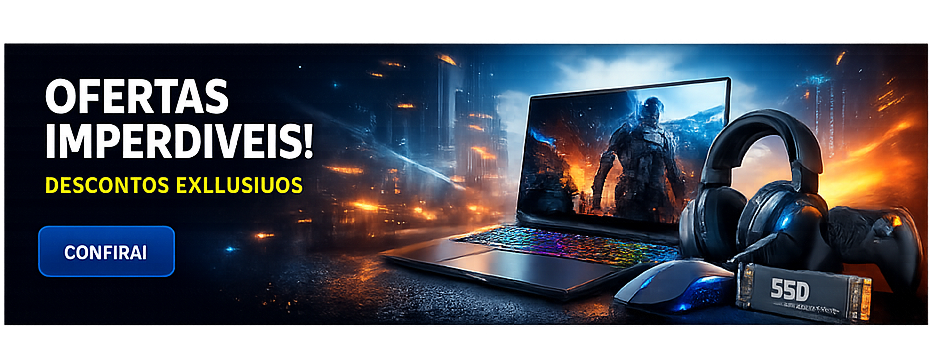
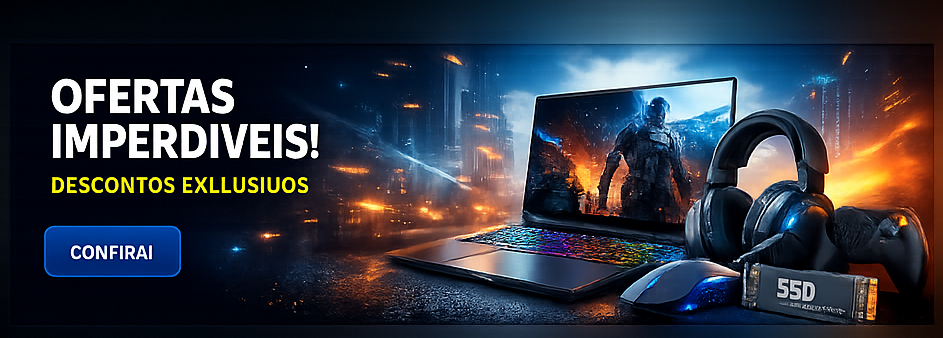
Add files via upload

diff --git a/styles.css b/styles.css
@@ -1,24 +1,145 @@
 
-:root{--bg:#050914;--surface:#0d1628;--surface2:#14213a;--primary:#1688ff;--accent:#35c3ff;--text:#f4f7fb;--muted:#9fb0c7;--border:rgba(255,255,255,.09);--radius:18px}
-*{box-sizing:border-box;margin:0;padding:0}html{scroll-behavior:smooth}
-body{font-family:Segoe UI,Arial,sans-serif;background:radial-gradient(circle at 80% 10%,rgba(22,136,255,.14),transparent 32%),linear-gradient(180deg,#050914,#091121);color:var(--text);line-height:1.6}
-img{max-width:100%;display:block}a{text-decoration:none;color:inherit}button,input{font:inherit}.container{width:min(1200px,92%);margin:auto}
-.header{position:sticky;top:0;z-index:1000;background:rgba(5,9,20,.9);backdrop-filter:blur(16px);border-bottom:1px solid var(--border)}
-.header-content{min-height:82px;display:flex;align-items:center;gap:28px}.brand{width:220px;flex:0 0 220px}.brand img{width:100%;height:58px;object-fit:contain;object-position:left center}
-.search{display:flex;flex:1}.search input{width:100%;padding:14px 17px;border:1px solid var(--border);border-right:0;border-radius:12px 0 0 12px;outline:none}
-.search button{border:0;padding:0 22px;border-radius:0 12px 12px 0;background:linear-gradient(135deg,var(--primary),#2867ff);color:#fff;font-weight:700}
-nav{display:flex;gap:20px;white-space:nowrap}nav a:hover{color:var(--accent)}
-.hero{padding:76px 0 58px}.hero-grid{display:grid;grid-template-columns:.95fr 1.05fr;gap:44px;align-items:center}
-.tag{display:inline-block;color:var(--accent);font-weight:700;background:rgba(22,136,255,.14);border:1px solid rgba(53,195,255,.2);padding:9px 15px;border-radius:999px;margin-bottom:20px}
-.hero h1{font-size:clamp(2.6rem,5vw,4.7rem);line-height:1.02;margin-bottom:20px}.hero p{color:var(--muted);font-size:1.08rem;margin-bottom:30px}
-.buttons{display:flex;gap:14px;flex-wrap:wrap}.btn{display:inline-flex;align-items:center;justify-content:center;padding:14px 22px;border-radius:12px;font-weight:700;transition:.22s}.btn:hover{transform:translateY(-3px)}
-.primary{background:linear-gradient(135deg,var(--primary),#285df5);color:#fff}.secondary{border:1px solid rgba(53,195,255,.55)}
-.hero-banner{display:block;border:1px solid var(--border);border-radius:20px;overflow:hidden;box-shadow:0 25px 70px rgba(0,0,0,.38)}.hero-banner img{width:100%;aspect-ratio:16/6;object-fit:cover}
-.section{padding:62px 0}.section h2{font-size:2rem;margin-bottom:26px}.category-grid{display:grid;grid-template-columns:repeat(4,1fr);gap:18px}
-.category{min-height:105px;border:1px solid var(--border);border-radius:var(--radius);background:linear-gradient(145deg,var(--surface2),var(--surface));color:#fff;font-size:1.05rem;padding:22px;cursor:pointer}
-.products-grid{display:grid;grid-template-columns:repeat(4,1fr);gap:20px}.product-card{background:linear-gradient(160deg,#121f36,#0c1526);border:1px solid var(--border);border-radius:var(--radius);overflow:hidden}
-.product-image{height:190px;display:grid;place-items:center;font-size:4rem}.product-info{padding:20px}.product-info h3{margin:8px 0 14px}.product-price{font-size:1.35rem;font-weight:800;margin-bottom:15px}.product-card .btn{width:100%}
-.offer-strip{margin-bottom:70px;padding:34px;border:1px solid var(--border);border-radius:22px;background:linear-gradient(135deg,rgba(20,33,58,.95),rgba(8,18,34,.95));display:flex;align-items:center;justify-content:space-between}
-footer{border-top:1px solid var(--border);background:#040711;padding:44px 0}.footer-grid{display:grid;grid-template-columns:1fr 1fr 1fr;gap:30px}footer p,footer a{color:var(--muted)}
-@media(max-width:980px){.header-content{flex-wrap:wrap;padding:14px 0}.brand{width:190px;flex-basis:190px}nav{width:100%;justify-content:center}.hero-grid{grid-template-columns:1fr}.category-grid,.products-grid{grid-template-columns:repeat(2,1fr)}}
-@media(max-width:620px){.search{order:3;width:100%}nav{overflow-x:auto;justify-content:flex-start}.category-grid,.products-grid,.footer-grid{grid-template-columns:1fr}.offer-strip{flex-direction:column;align-items:flex-start}}
+:root{
+  --bg:#050914;--surface:#0d1628;--surface2:#14213a;
+  --primary:#1688ff;--accent:#35c3ff;--text:#f4f7fb;
+  --muted:#9fb0c7;--border:rgba(255,255,255,.09);--radius:18px
+}
+*{box-sizing:border-box;margin:0;padding:0}
+html{scroll-behavior:smooth}
+body{
+  font-family:Segoe UI,Arial,sans-serif;
+  background:
+    radial-gradient(circle at 80% 8%,rgba(22,136,255,.16),transparent 30%),
+    linear-gradient(180deg,#050914,#091121);
+  color:var(--text);line-height:1.6
+}
+img{max-width:100%;display:block}
+a{text-decoration:none;color:inherit}
+button,input{font:inherit}
+.container{width:min(1200px,92%);margin:auto}
+
+.header{
+  position:sticky;top:0;z-index:1000;
+  background:rgba(5,9,20,.92);
+  backdrop-filter:blur(16px);
+  border-bottom:1px solid var(--border)
+}
+.header-content{
+  min-height:78px;display:flex;align-items:center;gap:26px
+}
+.brand{
+  width:210px;flex:0 0 210px;overflow:hidden
+}
+.brand img{
+  width:100%;height:58px;object-fit:contain;object-position:left center
+}
+.search{display:flex;flex:1;min-width:260px}
+.search input{
+  width:100%;padding:14px 17px;border:1px solid var(--border);
+  border-right:0;border-radius:12px 0 0 12px;outline:none
+}
+.search button{
+  border:0;padding:0 22px;border-radius:0 12px 12px 0;
+  background:linear-gradient(135deg,var(--primary),#2867ff);
+  color:#fff;font-weight:700;cursor:pointer
+}
+nav{display:flex;gap:18px;white-space:nowrap}
+nav a{color:#e8eef8}
+nav a:hover{color:var(--accent)}
+
+.hero{padding:72px 0 60px}
+.hero-grid{
+  display:grid;grid-template-columns:.95fr 1.05fr;
+  gap:42px;align-items:center
+}
+.tag{
+  display:inline-block;color:var(--accent);font-weight:700;
+  background:rgba(22,136,255,.14);
+  border:1px solid rgba(53,195,255,.2);
+  padding:9px 15px;border-radius:999px;margin-bottom:20px
+}
+.hero h1{
+  font-size:clamp(2.6rem,5vw,4.6rem);
+  line-height:1.03;margin-bottom:20px
+}
+.hero p{color:var(--muted);font-size:1.08rem;margin-bottom:30px}
+.buttons{display:flex;gap:14px;flex-wrap:wrap}
+.btn{
+  display:inline-flex;align-items:center;justify-content:center;
+  padding:14px 22px;border-radius:12px;font-weight:700;
+  transition:.22s
+}
+.btn:hover{transform:translateY(-3px)}
+.primary{background:linear-gradient(135deg,var(--primary),#285df5);color:#fff}
+.secondary{border:1px solid rgba(53,195,255,.55);color:#fff}
+
+.hero-banner{
+  display:block;border:1px solid var(--border);border-radius:20px;
+  overflow:hidden;box-shadow:0 25px 70px rgba(0,0,0,.38)
+}
+.hero-banner img{width:100%;aspect-ratio:16/6;object-fit:cover}
+
+.section{padding:62px 0}
+.section-heading{margin-bottom:26px}
+.section-heading span,.offer-strip span{
+  color:var(--accent);font-size:.78rem;font-weight:800;letter-spacing:.09em
+}
+.section-heading h2,.offer-strip h2{font-size:clamp(1.9rem,3vw,2.6rem)}
+
+.category-grid{display:grid;grid-template-columns:repeat(4,1fr);gap:18px}
+.category{
+  min-height:105px;border:1px solid var(--border);border-radius:var(--radius);
+  background:linear-gradient(145deg,var(--surface2),var(--surface));
+  color:#fff;font-size:1.05rem;padding:22px;cursor:pointer;
+  transition:.22s
+}
+.category:hover{
+  transform:translateY(-5px);
+  border-color:rgba(53,195,255,.5)
+}
+
+.products-grid{display:grid;grid-template-columns:repeat(4,1fr);gap:20px}
+.product-card{
+  background:linear-gradient(160deg,#121f36,#0c1526);
+  border:1px solid var(--border);border-radius:var(--radius);
+  overflow:hidden;transition:.22s
+}
+.product-card:hover{transform:translateY(-6px);border-color:rgba(53,195,255,.45)}
+.product-image{
+  height:190px;display:grid;place-items:center;font-size:4rem;
+  background:radial-gradient(circle,rgba(53,195,255,.13),transparent 65%)
+}
+.product-info{padding:20px}
+.product-info small{color:var(--accent);font-weight:800}
+.product-info h3{margin:8px 0 14px;min-height:48px}
+.product-price{font-size:1.35rem;font-weight:800;margin-bottom:15px}
+.product-card .btn{width:100%}
+
+.offer-strip{
+  margin:45px auto 70px;padding:34px;border:1px solid var(--border);
+  border-radius:22px;background:linear-gradient(135deg,rgba(20,33,58,.95),rgba(8,18,34,.95));
+  display:flex;align-items:center;justify-content:space-between;gap:24px
+}
+.offer-strip p{color:var(--muted);margin-top:8px}
+
+footer{border-top:1px solid var(--border);background:#040711;padding:44px 0}
+.footer-grid{display:grid;grid-template-columns:1fr 1fr 1fr;gap:30px}
+footer p,footer a{color:var(--muted)}
+footer a{display:block;margin-bottom:6px}
+
+@media(max-width:980px){
+  .header-content{flex-wrap:wrap;padding:14px 0}
+  .brand{width:185px;flex-basis:185px}
+  nav{width:100%;justify-content:center}
+  .hero-grid{grid-template-columns:1fr}
+  .category-grid,.products-grid{grid-template-columns:repeat(2,1fr)}
+}
+@media(max-width:620px){
+  .brand{width:165px;flex-basis:165px}
+  .search{order:3;width:100%}
+  nav{overflow-x:auto;justify-content:flex-start}
+  .hero{padding-top:46px}
+  .hero h1{font-size:2.5rem}
+  .category-grid,.products-grid,.footer-grid{grid-template-columns:1fr}
+  .offer-strip{flex-direction:column;align-items:flex-start}
+}

diff --git a/index.html b/index.html
@@ -10,11 +10,15 @@
 <body>
 <header class="header">
   <div class="container header-content">
-    <a class="brand" href="#inicio"><img src="assets/logo-novatech.png" alt="NovaTech Solutions"></a>
+    <a class="brand" href="#inicio" aria-label="NovaTech Solutions">
+      <img src="assets/logo-header.png" alt="NovaTech Solutions">
+    </a>
+
     <form class="search" id="searchForm">
       <input id="searchInput" type="search" placeholder="Pesquisar produtos...">
       <button type="submit">Buscar</button>
     </form>
+
     <nav>
       <a href="#categorias">Categorias</a>
       <a href="#destaques">Destaques</a>
@@ -27,7 +31,7 @@
 <main id="inicio">
   <section class="hero">
     <div class="container hero-grid">
-      <div>
+      <div class="hero-copy">
         <span class="tag">TECNOLOGIA • INFORMÁTICA • GAMER</span>
         <h1>Tecnologia para quem exige desempenho.</h1>
         <p>Encontre notebooks, SSDs, headsets, monitores e acessórios selecionados.</p>
@@ -36,33 +40,44 @@
           <a class="btn secondary" href="#categorias">Explorar categorias</a>
         </div>
       </div>
-      <a class="hero-banner" href="#ofertas"><img src="assets/banner-ofertas.png" alt="Ofertas imperdíveis"></a>
+
+      <a class="hero-banner" href="#ofertas">
+        <img src="assets/banner-ofertas.png" alt="Ofertas imperdíveis">
+      </a>
     </div>
   </section>
 
   <section id="categorias" class="container section">
-    <h2>Categorias</h2>
+    <div class="section-heading">
+      <span>EXPLORE</span>
+      <h2>Categorias</h2>
+    </div>
+
     <div class="category-grid">
-      <button class="category" data-category="notebooks">💻 Notebooks</button>
-      <button class="category" data-category="monitores">🖥️ Monitores</button>
-      <button class="category" data-category="teclados">⌨️ Teclados</button>
-      <button class="category" data-category="mouses">🖱️ Mouses</button>
-      <button class="category" data-category="headsets">🎧 Headsets</button>
-      <button class="category" data-category="ssd">💾 SSD</button>
-      <button class="category" data-category="memorias">🧠 Memórias</button>
-      <button class="category" data-category="gamer">🎮 Gamer</button>
+      <button class="category" data-category="notebooks">💻 <strong>Notebooks</strong></button>
+      <button class="category" data-category="monitores">🖥️ <strong>Monitores</strong></button>
+      <button class="category" data-category="teclados">⌨️ <strong>Teclados</strong></button>
+      <button class="category" data-category="mouses">🖱️ <strong>Mouses</strong></button>
+      <button class="category" data-category="headsets">🎧 <strong>Headsets</strong></button>
+      <button class="category" data-category="ssd">💾 <strong>SSD</strong></button>
+      <button class="category" data-category="memorias">🧠 <strong>Memórias</strong></button>
+      <button class="category" data-category="gamer">🎮 <strong>Gamer</strong></button>
     </div>
   </section>
 
   <section id="destaques" class="container section">
-    <h2>Produtos em destaque</h2>
+    <div class="section-heading">
+      <span>SELEÇÃO NOVATECH</span>
+      <h2>Produtos em destaque</h2>
+    </div>
     <div id="productsGrid" class="products-grid"></div>
   </section>
 
-  <section id="ofertas" class="container section offer-strip">
+  <section id="ofertas" class="container offer-strip">
     <div>
-      <h2>Ofertas do dia</h2>
-      <p>Os botões serão ligados aos seus links de afiliado.</p>
+      <span>OFERTAS DO DIA</span>
+      <h2>Equipamentos para elevar seu setup</h2>
+      <p>Os botões serão ligados aos seus links oficiais de afiliado.</p>
     </div>
     <a class="btn primary" href="#destaques">Conferir produtos</a>
   </section>
@@ -70,9 +85,18 @@
 
 <footer id="contato">
   <div class="container footer-grid">
-    <div><strong>NovaTech Solutions</strong><p>São José dos Campos - SP</p></div>
-    <div><p>CNPJ: 55.292.400/0001-00</p><p>[email redacted]</p></div>
-    <div><a href="politica.html">Política de privacidade</a><a href="termos.html">Termos de uso</a></div>
+    <div>
+      <strong>NovaTech Solutions</strong>
+      <p>São José dos Campos - SP</p>
+    </div>
+    <div>
+      <p>CNPJ: 55.292.400/0001-00</p>
+      <p>[email redacted]</p>
+    </div>
+    <div>
+      <a href="politica.html">Política de privacidade</a>
+      <a href="termos.html">Termos de uso</a>
+    </div>
   </div>
 </footer>
 

diff --git a/app.js b/app.js
@@ -7,9 +7,41 @@ const products=[
 {name:"Teclado Mecânico RGB",category:"teclados",price:"R$ 349,90",icon:"⌨️",link:"#"},
 {name:"Mouse Gamer",category:"mouses",price:"R$ 199,90",icon:"🖱️",link:"#"},
 {name:"Memória RAM 16 GB",category:"memorias",price:"R$ 319,90",icon:"🧠",link:"#"},
-{name:"Controle Gamer",category:"gamer",price:"R$ 249,90",icon:"🎮",link:"#"}];
+{name:"Controle Gamer",category:"gamer",price:"R$ 249,90",icon:"🎮",link:"#"}
+];
+
 const grid=document.querySelector("#productsGrid");
-function renderProducts(items){grid.innerHTML=items.map(p=>`<article class="product-card"><div class="product-image">${p.icon}</div><div class="product-info"><small>${p.category.toUpperCase()}</small><h3>${p.name}</h3><div class="product-price">${p.price}</div><a class="btn primary" href="${p.link}" target="_blank" rel="noopener sponsored">Comprar no Mercado Livre</a></div></article>`).join("")}
-document.querySelector("#searchForm").addEventListener("submit",e=>{e.preventDefault();const t=document.querySelector("#searchInput").value.toLowerCase().trim();renderProducts(products.filter(p=>p.name.toLowerCase().includes(t)||p.category.includes(t)));document.querySelector("#destaques").scrollIntoView()});
-document.querySelectorAll(".category").forEach(b=>b.addEventListener("click",()=>{renderProducts(products.filter(p=>p.category===b.dataset.category));document.querySelector("#destaques").scrollIntoView()}));
+
+function renderProducts(items){
+  grid.innerHTML=items.map(p=>`
+    <article class="product-card">
+      <div class="product-image">${p.icon}</div>
+      <div class="product-info">
+        <small>${p.category.toUpperCase()}</small>
+        <h3>${p.name}</h3>
+        <div class="product-price">${p.price}</div>
+        <a class="btn primary" href="${p.link}" target="_blank" rel="noopener sponsored">
+          Comprar no Mercado Livre
+        </a>
+      </div>
+    </article>`).join("");
+}
+
+document.querySelector("#searchForm").addEventListener("submit",e=>{
+  e.preventDefault();
+  const term=document.querySelector("#searchInput").value.toLowerCase().trim();
+  renderProducts(products.filter(p=>
+    p.name.toLowerCase().includes(term) ||
+    p.category.toLowerCase().includes(term)
+  ));
+  document.querySelector("#destaques").scrollIntoView({behavior:"smooth"});
+});
+
+document.querySelectorAll(".category").forEach(button=>{
+  button.addEventListener("click",()=>{
+    renderProducts(products.filter(p=>p.category===button.dataset.category));
+    document.querySelector("#destaques").scrollIntoView({behavior:"smooth"});
+  });
+});
+
 renderProducts(products);